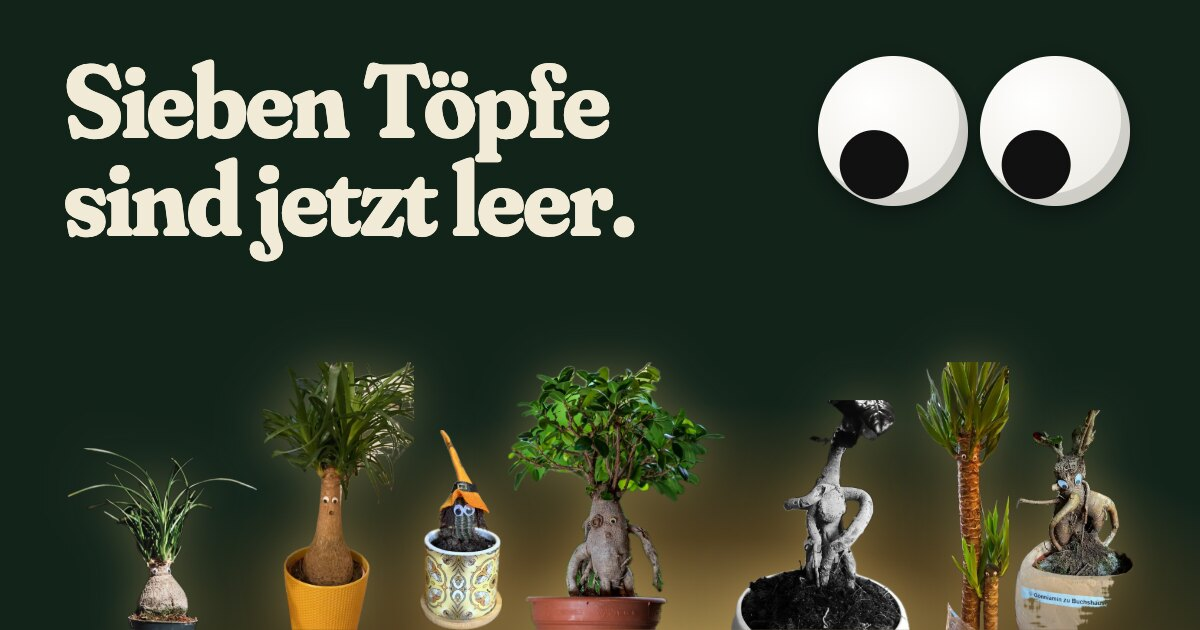
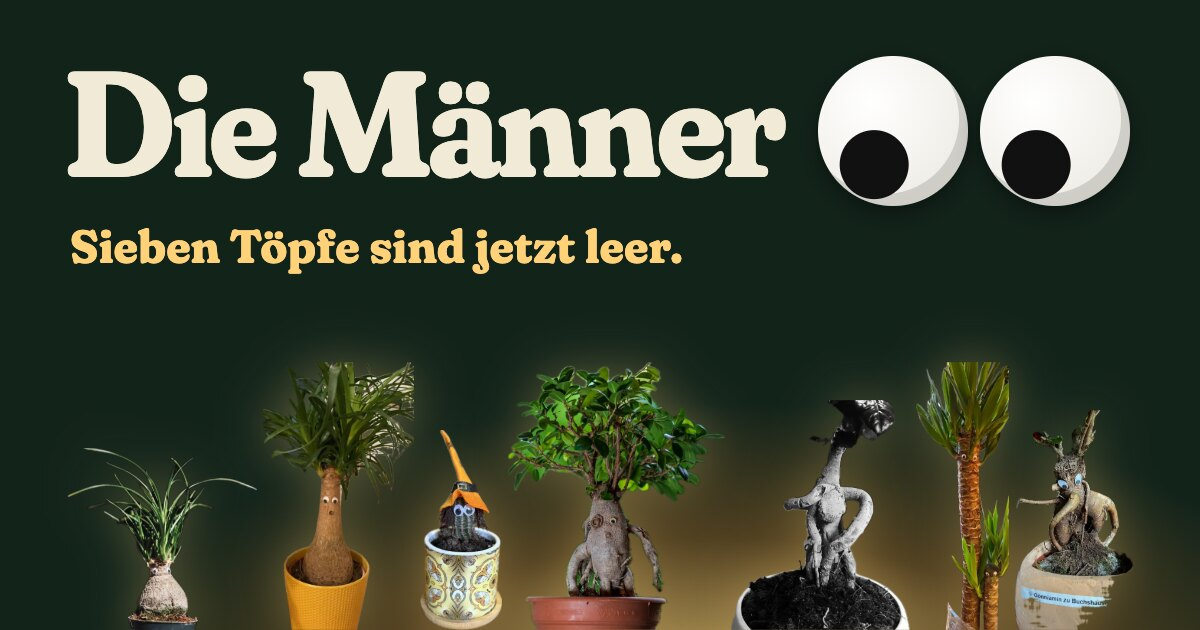
Share image: lead with "Die Männer"

Changed region(s): [[0.0308, 0.0905, 0.6783, 0.4222]]

diff --git a/tote-maenner/share-source.html b/tote-maenner/share-source.html
@@ -13,6 +13,8 @@
   body { width: 1200px; height: 630px; overflow: hidden; position: relative; color: #f1ead6; font-family: Fraunces, Georgia, serif;
     background: radial-gradient(900px 420px at 60% 112%, #ffd27acc, #c9762a55 40%, transparent 72%), #12231a; }
   h1 { position: absolute; left: 64px; top: 52px; margin: 0; width: 700px; font-size: 104px; line-height: .94; font-weight: 700; letter-spacing: -.025em; font-variation-settings: "SOFT" 100, "WONK" 1; }
+  h1 { font-size: 150px; white-space: nowrap; }
+  .unter { position: absolute; left: 70px; top: 218px; margin: 0; font-size: 46px; font-weight: 700; font-style: normal; color: #ffd27a; font-variation-settings: "SOFT" 100, "WONK" 1; }
   .augen { position: absolute; right: 70px; top: 56px; display: flex; gap: 12px; }
   .augen i { position: relative; width: 150px; height: 150px; border-radius: 50%; background: radial-gradient(circle at 35% 30%, #fff, #e9e6dc); box-shadow: inset -9px -12px 0 #0002, 0 8px 22px #0006; }
   .augen i::after { content: ""; position: absolute; inset: 27%; border-radius: 50%; background: #111; transform: translate(-28%, 48%); }
@@ -21,7 +23,8 @@
 </style>
 </head>
 <body>
-  <h1>Sieben Töpfe sind jetzt leer.</h1>
+  <h1>Die Männer</h1>
+  <p class="unter">Sieben Töpfe sind jetzt leer.</p>
   <div class="augen"><i></i><i></i></div>
   <div class="reihe">
     <img src="sticker/der-kleine.webp" alt="" style="height: 190px">

diff --git a/tote-maenner/index.html b/tote-maenner/index.html
@@ -7,7 +7,7 @@
 <meta name="description" content="Eine Abendandacht für sieben Pflanzen mit Wackelaugen. Kerzen anzünden erlaubt, kichern auch.">
 <meta property="og:type" content="website">
 <meta property="og:url" content="https://dmrschmidt.de/tote-maenner/">
-<meta property="og:title" content="Sieben Töpfe sind jetzt leer.">
+<meta property="og:title" content="Die Männer">
 <meta property="og:description" content="Eine Abendandacht für sieben Pflanzen mit Wackelaugen. Kerzen anzünden erlaubt, kichern auch.">
 <meta property="og:image" content="https://dmrschmidt.de/tote-maenner/share.jpg">
 <meta property="og:image:width" content="1200">
